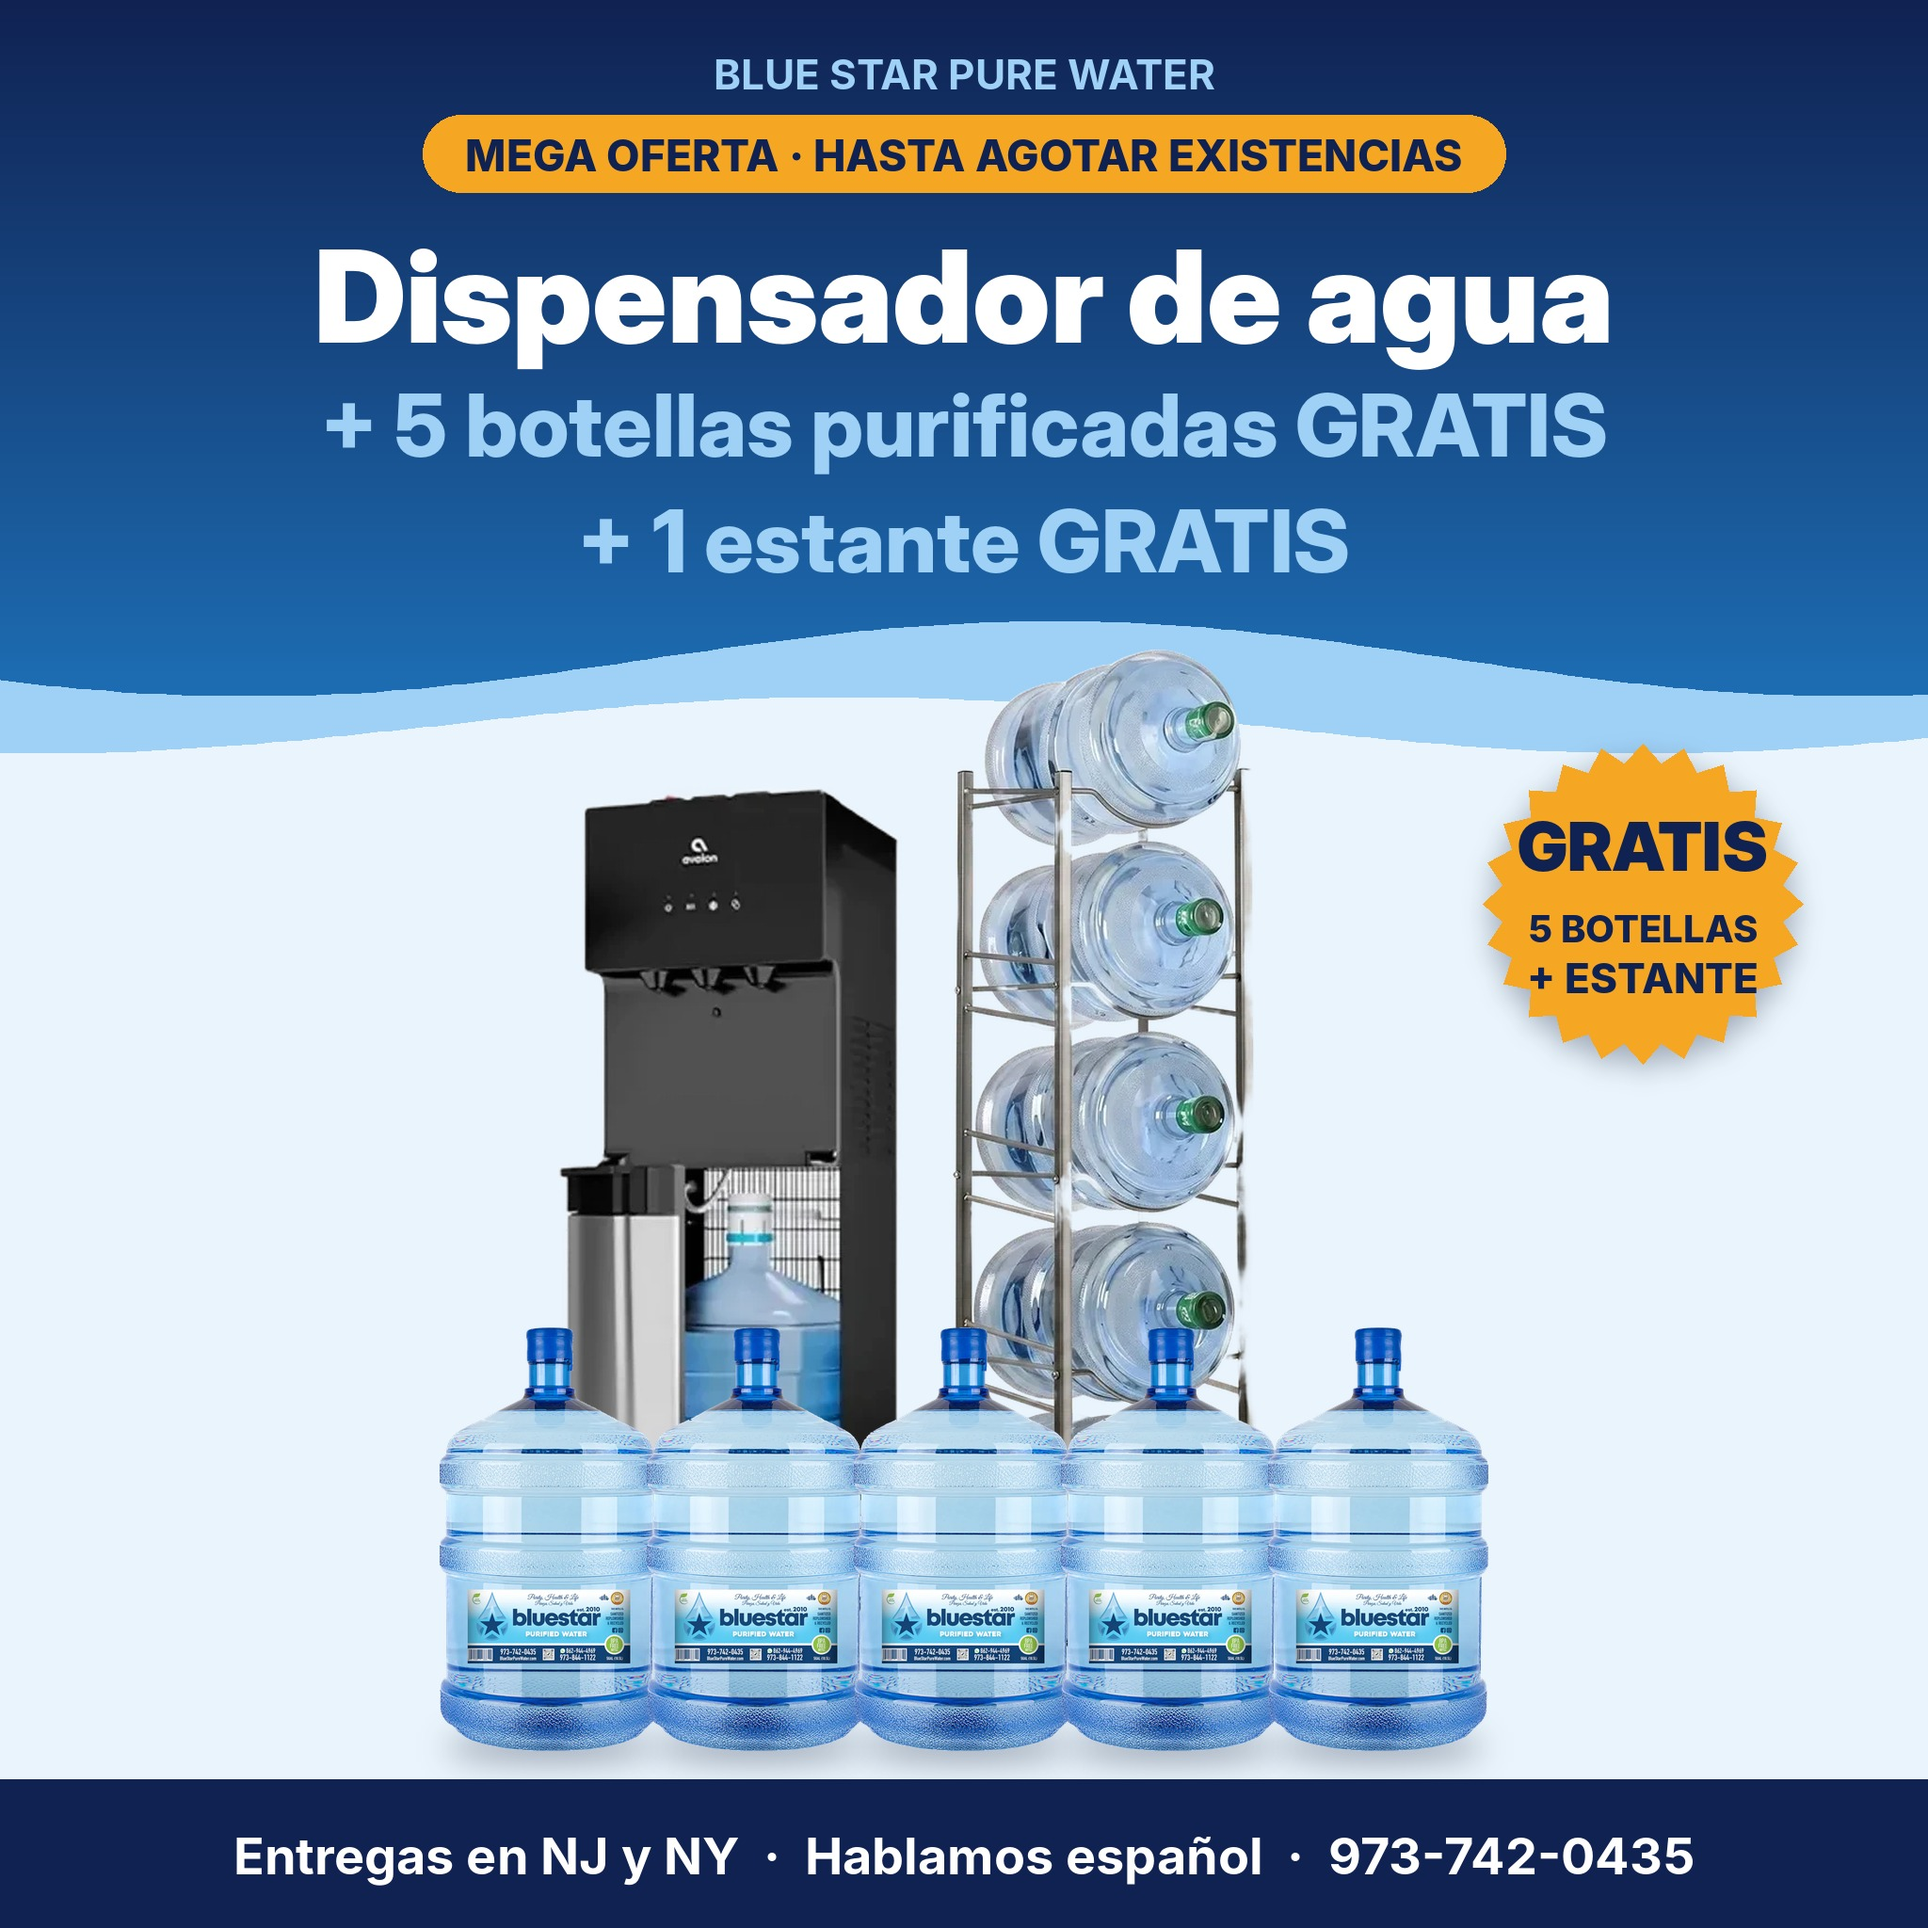
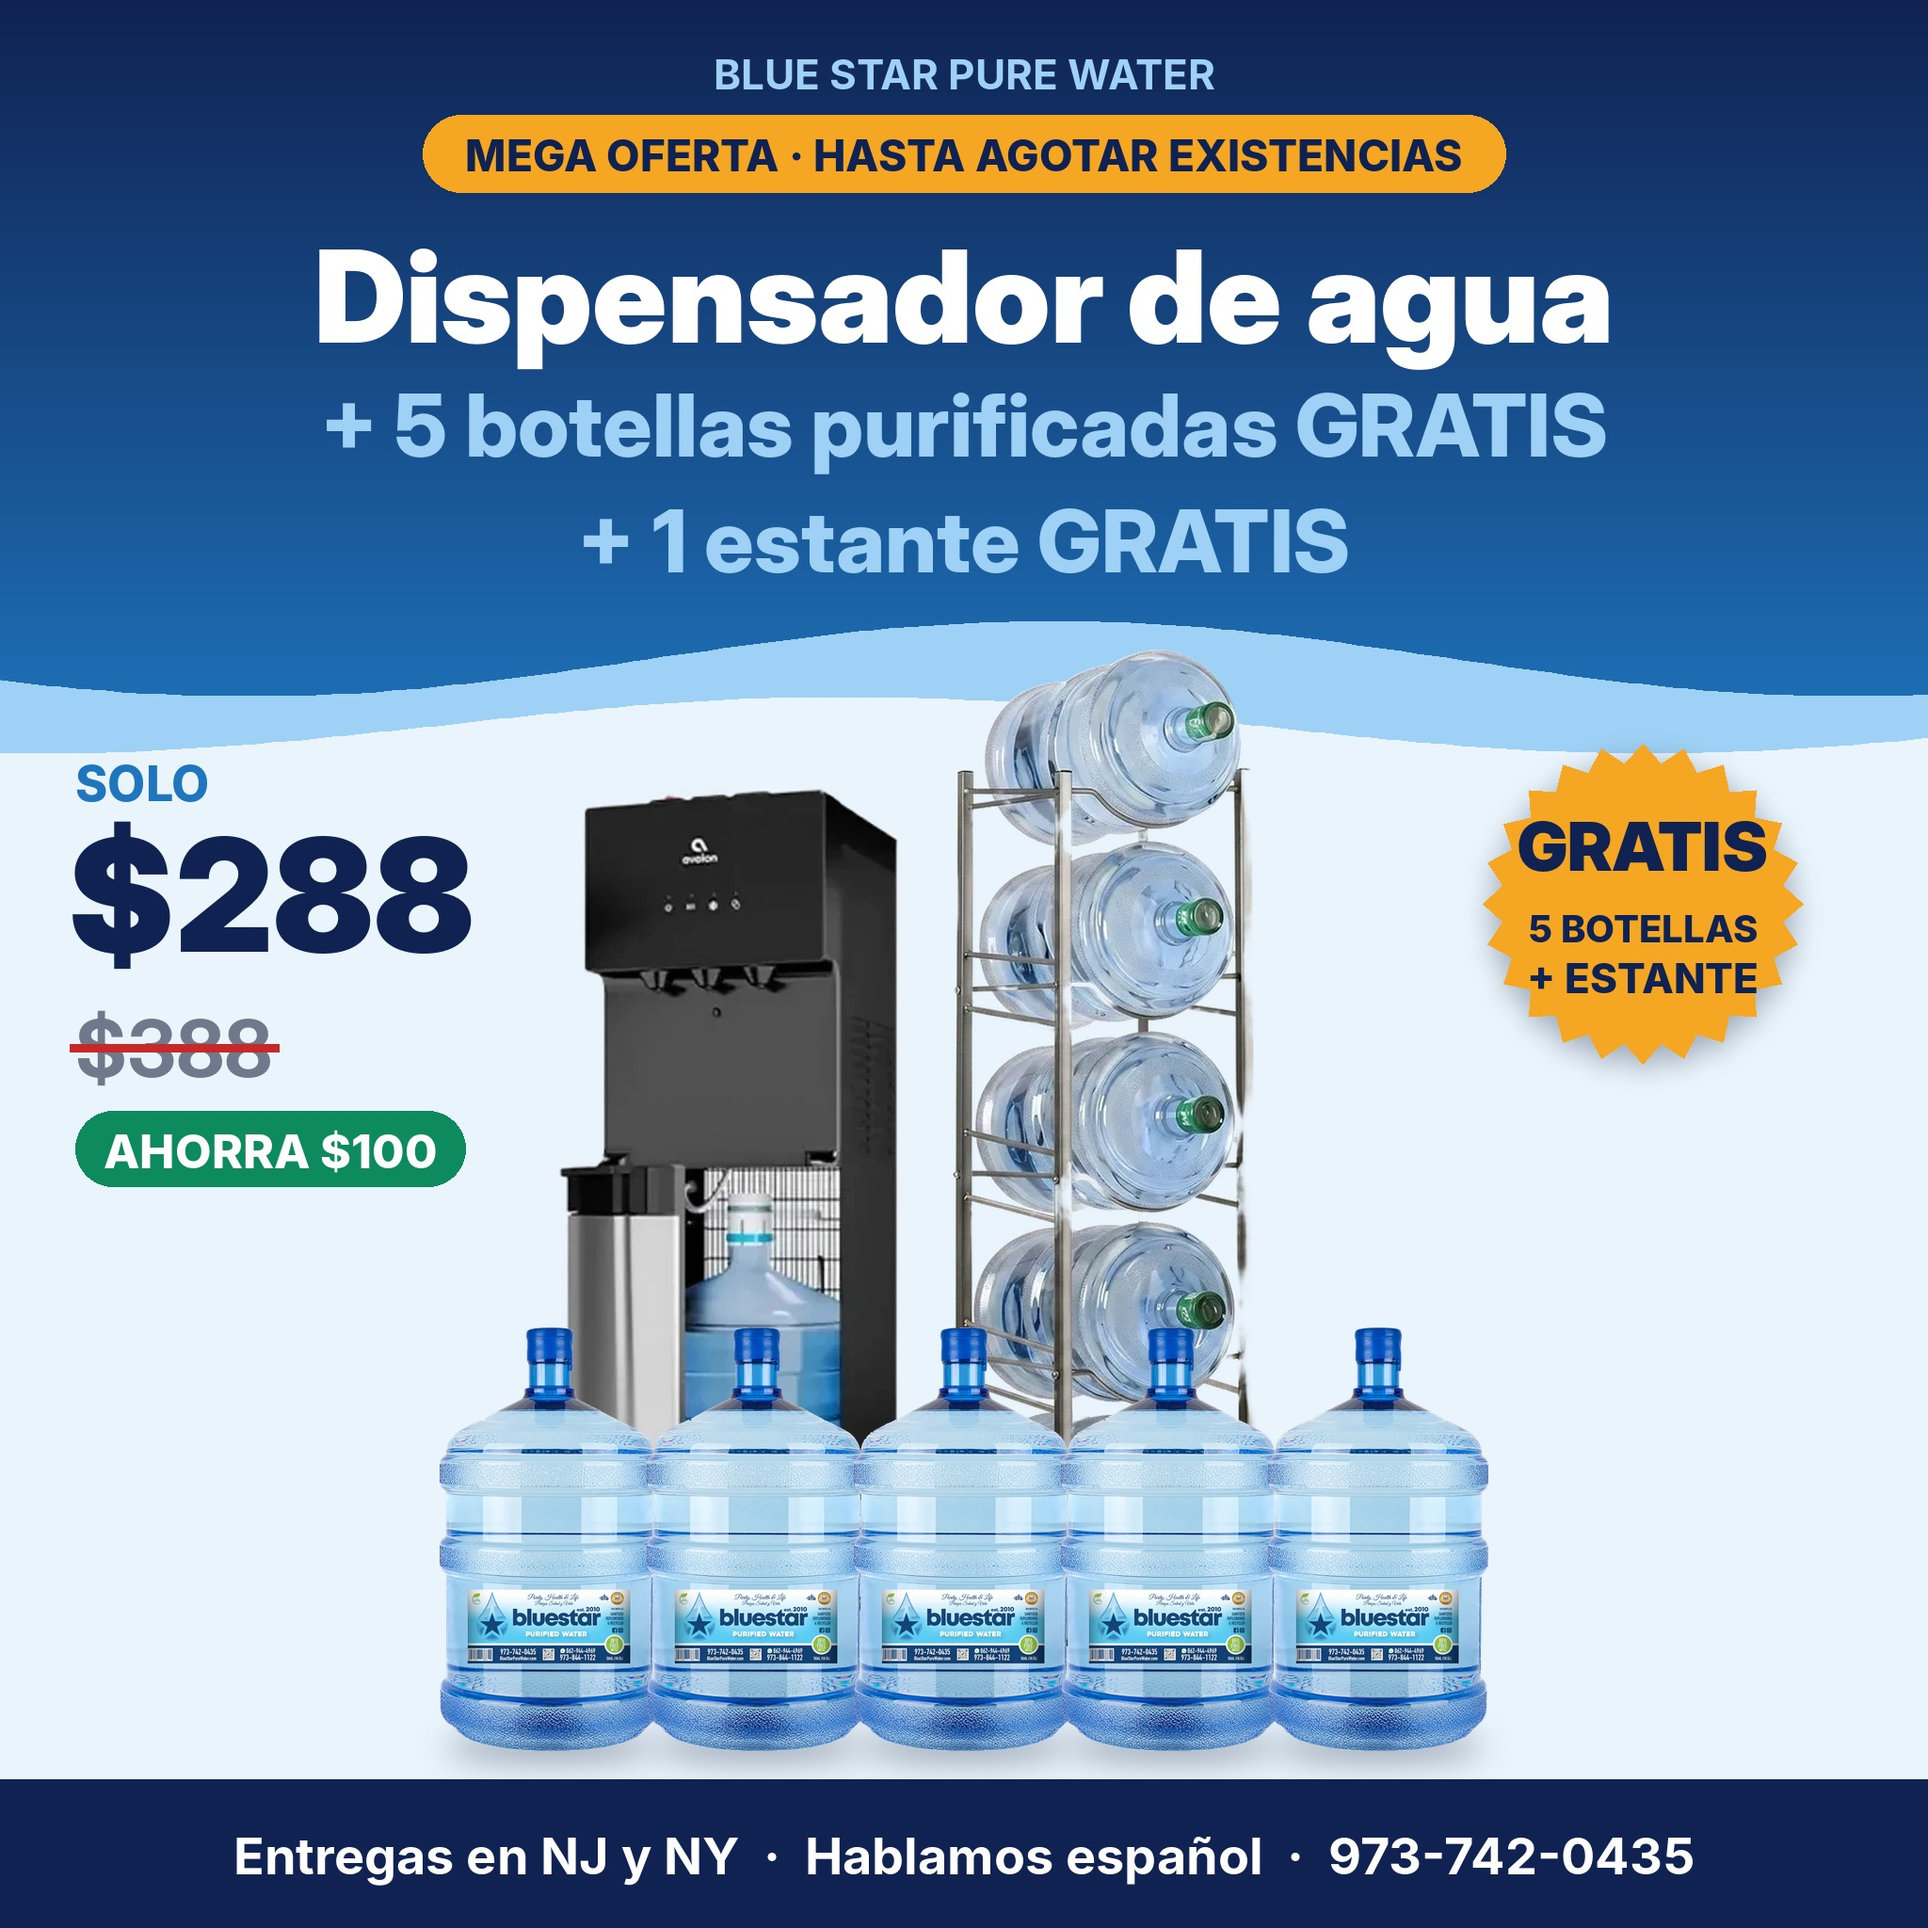
Bundle promo: show price $288 (was $388, save $100)
Claude-Session: https://claude.ai/code/session_011y2TH2zgT7H1AYYPi3Ntwd

Changed region(s): [[0.0312, 0.375, 0.25, 0.5], [0.0312, 0.5312, 0.25, 0.625]]

diff --git a/product-photos/src/bundle_promo.py b/product-photos/src/bundle_promo.py
@@ -1,3 +1,4 @@
+# Usage (from the repo root): python3 product-photos/src/bundle_promo.py en 288 388  (lang, price, compare-at price)
 from PIL import Image, ImageFilter, ImageDraw, ImageFont
 import math, sys
 SRC='product-photos/src/cooler-stand.webp'
@@ -7,10 +8,11 @@ def font(n,s): return ImageFont.truetype(F+n,s)
 W=2048
 NAVY=(16,34,82); BLUE=(31,118,191); SKY=(234,244,252); GOLD=(245,166,35); WHITE=(255,255,255)
 lang=sys.argv[1] if len(sys.argv)>1 else 'en'
+PRICE,WAS=sys.argv[2],sys.argv[3]
 T={'en':dict(pill='MEGA SALE · WHILE SUPPLIES LAST',h1='Water Cooler',h2='+ 5 Purified Bottles FREE',h3='+ 1 Bottle Stand FREE',
-            free1='FREE',free2='5 BOTTLES',free3='+ STAND',foot='Delivered to NJ & NY  ·  Se Habla Español  ·  973-742-0435',brand='BLUE STAR PURE WATER'),
+            free1='FREE',free2='5 BOTTLES',free3='+ STAND',foot='Delivered to NJ & NY  ·  Se Habla Español  ·  973-742-0435',brand='BLUE STAR PURE WATER',only='ONLY',save='SAVE'),
    'es':dict(pill='MEGA OFERTA · HASTA AGOTAR EXISTENCIAS',h1='Dispensador de agua',h2='+ 5 botellas purificadas GRATIS',h3='+ 1 estante GRATIS',
-            free1='GRATIS',free2='5 BOTELLAS',free3='+ ESTANTE',foot='Entregas en NJ y NY  ·  Hablamos español  ·  973-742-0435',brand='BLUE STAR PURE WATER')}[lang]
+            free1='GRATIS',free2='5 BOTELLAS',free3='+ ESTANTE',foot='Entregas en NJ y NY  ·  Hablamos español  ·  973-742-0435',brand='BLUE STAR PURE WATER',only='SOLO',save='AHORRA')}[lang]
 c=Image.new('RGBA',(W,W),SKY+(255,))
 d=ImageDraw.Draw(c)
 # top gradient band with wave edge
@@ -57,6 +59,21 @@ put(back,bh,bx,floor-110,70)
 jh=450; jw=int(jug.width*jh/jug.height); g=-14
 tot=5*jw+4*g; x0=(W-tot)//2
 for i in range(5): put(jug,jh,x0+i*(jw+g),floor)
+
+# price block (left of the cooler)
+px0=80; py0=800
+d.text((px0,py0),T['only'],font=font('Inter-ExtraBold.otf',52),fill=BLUE)
+pf=font('InterDisplay-Black.otf',166)
+assert px0+d.textlength('$'+PRICE,font=pf) < (W-int(back.width*1060/back.height))//2-60-20, 'price overlaps cooler'
+d.text((px0-8,py0+50),'$'+PRICE,font=pf,fill=NAVY)
+wf=font('InterDisplay-Bold.otf',84); wt='$'+WAS
+d.text((px0,py0+262),wt,font=wf,fill=(110,122,140))
+ww=d.textlength(wt,font=wf); yb=py0+262+wf.getbbox(wt)[1]+(wf.getbbox(wt)[3]-wf.getbbox(wt)[1])//2
+d.line((px0-6,yb,px0+ww+6,yb),fill=(200,40,40),width=9)
+sv=T['save']+' $'+str(int(float(WAS))-int(float(PRICE)))
+sf=font('Inter-ExtraBold.otf',50); sw=d.textlength(sv,font=sf)
+d.rounded_rectangle((px0,py0+380,px0+sw+60,py0+460),radius=40,fill=(14,138,95))
+d.text((px0+30,py0+392),sv,font=sf,fill=WHITE)
 # FREE burst
 cx,cy,r=1745,960,170
 burst=Image.new('RGBA',(W,W),(0,0,0,0)); bd=ImageDraw.Draw(burst)
